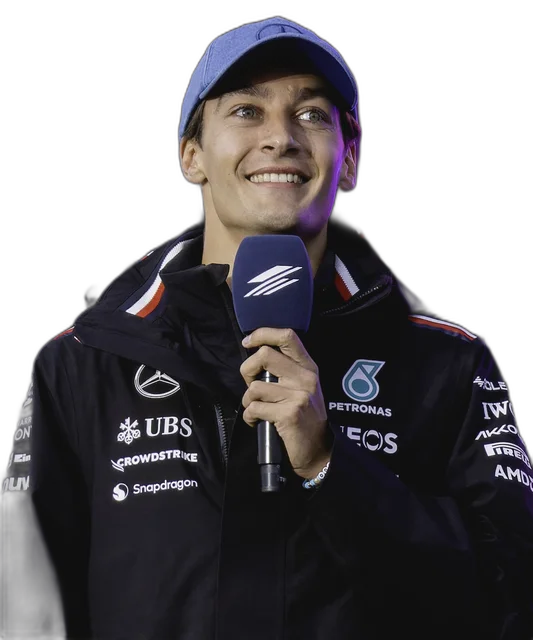
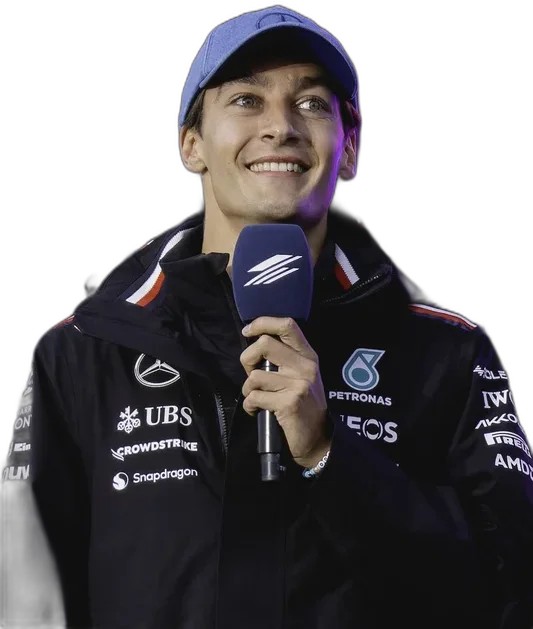
V2: trim cutout dead space, reposition Standings leader as a real anchor
- The 'floating' gap between podium cutouts and driver names was real: some
  source photos had significant dead transparent space baked into the
  canvas after background removal (HAM: 64px of a 640px frame — ~10%).
  Trimmed every committed cutout to its alpha bounding box; driver_cutouts.py
  now does this automatically for future runs.
- Standings' championship-leader cutout was an absolutely-positioned
  background bleed in the card's corner — easy to miss, and positioned
  somewhat arbitrarily relative to the stat row. Made it a real in-flow
  portrait on the left instead, the card's visual anchor the same way P1
  anchors the podium.

diff --git a/frontend/src/views/StandingsView.tsx b/frontend/src/views/StandingsView.tsx
@@ -167,12 +167,12 @@ function LeaderStrip({ data }: { data: StandingsResp }) {
   const second = data.drivers[1];
   const gap = second ? leader.points - second.points : 0;
   return (
-    <Card className="relative flex flex-wrap items-center gap-x-8 gap-y-3 overflow-hidden border-l-2 border-l-accent p-4">
-      <DriverCutout
-        code={leader.driver}
-        height={110}
-        className="pointer-events-none absolute bottom-0 right-3 drop-shadow-[0_6px_10px_rgba(0,0,0,0.45)]"
-      />
+    <Card className="flex flex-wrap items-center gap-x-6 gap-y-3 border-l-2 border-l-accent p-4">
+      {/* A real portrait, in the flow — not a background bleed in a corner
+          (which was easy to miss and awkward to position against the stat
+          row). It's the card's visual anchor now, same way P1 anchors the
+          podium. */}
+      <DriverCutout code={leader.driver} height={92} className="drop-shadow-[0_6px_10px_rgba(0,0,0,0.45)]" />
       <div>
         <div className="font-mono text-[11px] uppercase tracking-[0.12em] text-ink-faint">
           Championship leader

diff --git a/src/f1se/standalone/driver_cutouts.py b/src/f1se/standalone/driver_cutouts.py
@@ -65,6 +65,15 @@ def build_cutout(code: str, name: str) -> bool:
     src = Image.open(io.BytesIO(resp.content)).convert("RGB")
     cutout = remove(src)
 
+    # Trim to the visible content's bounding box — background removal keeps
+    # the original photo's full canvas, just with background pixels made
+    # transparent, and how much empty headroom/footroom that leaves varies a
+    # lot per source photo. Left untrimmed, some drivers render with a
+    # noticeable gap of dead space before the name below them.
+    bbox = cutout.split()[-1].getbbox()
+    if bbox:
+        cutout = cutout.crop(bbox)
+
     w, h = cutout.size
     if h > MAX_HEIGHT:
         scale = MAX_HEIGHT / h
